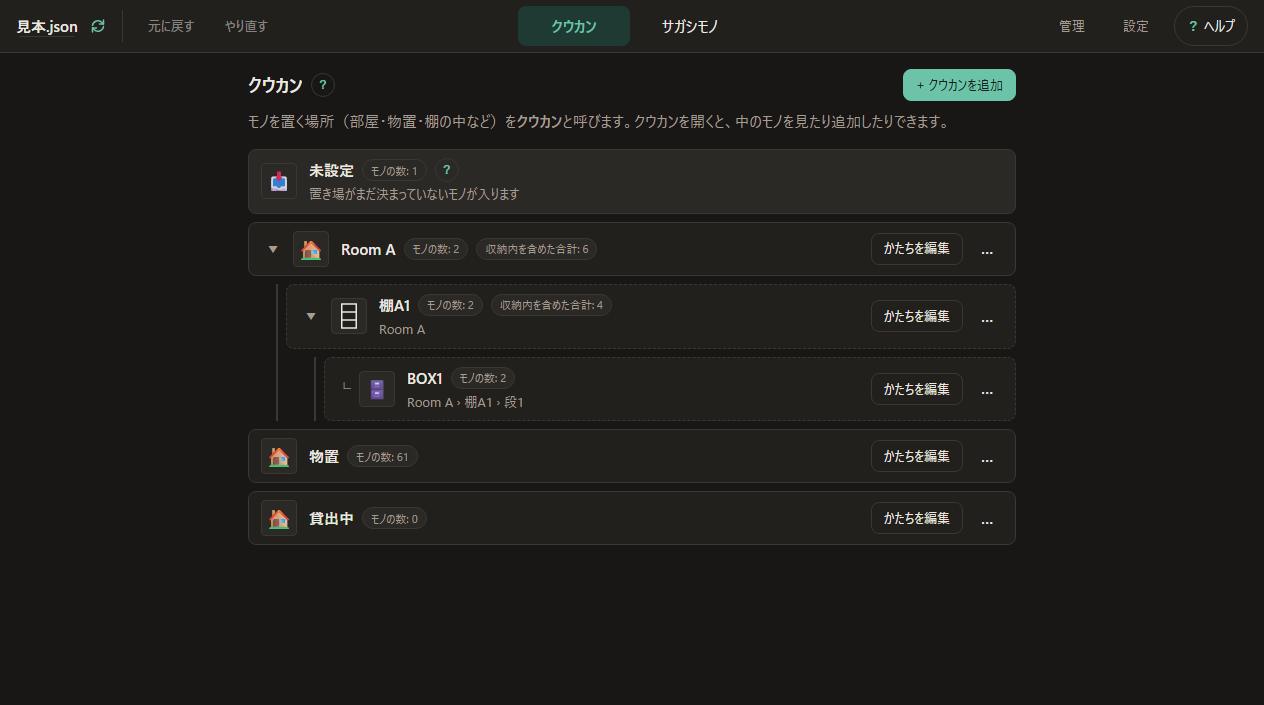
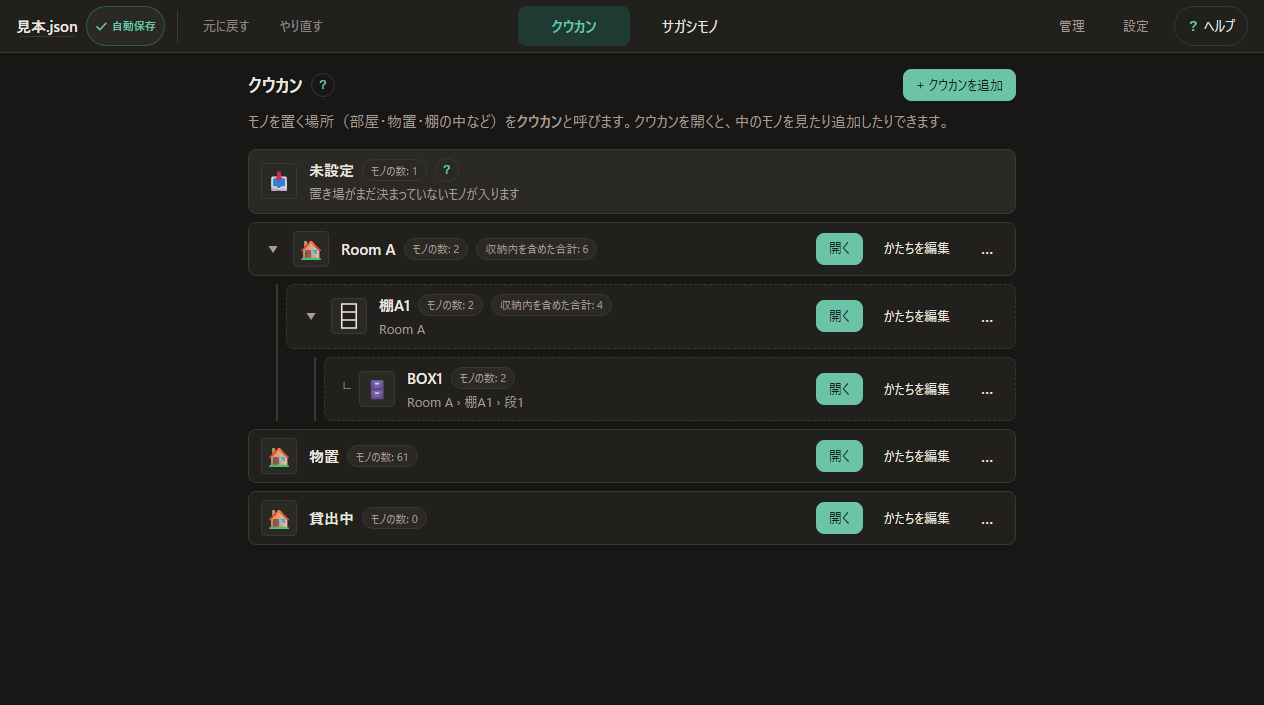
feat(ui): resolve blind review frictions with clear primary actions, safe autosave badge, and focused guidance

diff --git a/src/ui/components/Header.svelte b/src/ui/components/Header.svelte
@@ -123,25 +123,17 @@
           class="autosave-badge"
           class:on={$app.autosave}
           class:off={!$app.autosave}
-          title={$app.autosave ? '自動保存: オン（押すとオフにします）' : '自動保存: オフ（押すとオンにします）'}
-          aria-label={$app.autosave ? '自動保存はオンです。押すとオフにします' : '自動保存はオフです。押すとオンにします'}
+          title={$app.autosave ? '自動保存: オン（変更は約1秒後に自動保存されます）' : '自動保存: オフ（手動で保存ボタンを押してください）'}
+          aria-label={$app.autosave ? '自動保存はオンです' : '自動保存はオフです'}
           onclick={onAutosaveClick}
         >
           {#if $app.autosave}
-            <svg class="autosave-icon" viewBox="0 0 16 16" width="16" height="16" fill="none" stroke="currentColor" stroke-width="1.5" stroke-linecap="round" stroke-linejoin="round" aria-hidden="true">
-              <path d="M2.5 7.5A5.5 5.5 0 0 1 12 4.5l1.5 1.5" />
-              <polyline points="13.5 2 13.5 6 9.5 6" />
-              <path d="M13.5 8.5A5.5 5.5 0 0 1 4 11.5L2.5 10" />
-              <polyline points="2.5 14 2.5 10 6.5 10" />
+            <svg class="autosave-icon" viewBox="0 0 16 16" width="13" height="13" fill="none" stroke="currentColor" stroke-width="2" stroke-linecap="round" stroke-linejoin="round" aria-hidden="true">
+              <polyline points="2.5 8.5 6 12 13.5 4" />
             </svg>
+            <span class="autosave-text">自動保存</span>
           {:else}
-            <svg class="autosave-icon off-icon" viewBox="0 0 16 16" width="16" height="16" fill="none" stroke="currentColor" stroke-width="1.5" stroke-linecap="round" stroke-linejoin="round" aria-hidden="true">
-              <path d="M2.5 7.5A5.5 5.5 0 0 1 12 4.5l1.5 1.5" opacity="0.6" />
-              <polyline points="13.5 2 13.5 6 9.5 6" opacity="0.6" />
-              <path d="M13.5 8.5A5.5 5.5 0 0 1 4 11.5L2.5 10" opacity="0.6" />
-              <polyline points="2.5 14 2.5 10 6.5 10" opacity="0.6" />
-              <line x1="2" y1="2" x2="14" y2="14" stroke="currentColor" stroke-width="1.8" />
-            </svg>
+            <span class="autosave-text off">手動保存</span>
           {/if}
         </button>
 
@@ -259,42 +251,45 @@
     background: transparent;
   }
 
-  /* 自動保存インジケーター（コンパクト・常時表示） */
+  /* 自動保存インジケーター（ピル型・安心感向上） */
   .autosave-badge {
     display: inline-flex;
     align-items: center;
-    justify-content: center;
-    width: 24px;
-    height: 24px;
-    padding: 0;
-    border: none;
-    background: transparent;
-    border-radius: var(--radius-small);
+    gap: 4px;
+    height: 22px;
+    padding: 0 var(--space-2);
+    border: 1px solid var(--border);
+    background: var(--surface-2);
+    border-radius: 999px;
     color: var(--text-muted);
+    font-size: 11px;
     cursor: pointer;
     flex-shrink: 0;
-    transition: color 0.15s, background-color 0.15s;
+    transition: color 0.15s, background-color 0.15s, border-color 0.15s;
   }
 
   .autosave-badge:hover {
-    background: var(--surface-2);
+    background: var(--surface-3);
     color: var(--text);
   }
 
   .autosave-badge.on {
     color: var(--accent);
+    border-color: rgba(52, 211, 153, 0.3);
   }
 
   .autosave-badge.off {
     color: var(--text-muted);
+    border-color: var(--border);
   }
 
   .autosave-icon {
     display: block;
+    flex-shrink: 0;
   }
 
-  .autosave-icon.off-icon {
-    color: var(--text-muted);
+  .autosave-text {
+    font-weight: 500;
   }
 
   .file-menu {

diff --git a/src/ui/screens/ViewScreen.svelte b/src/ui/screens/ViewScreen.svelte
@@ -124,11 +124,11 @@
             {:else}
               <button
                 type="button"
-                class="small primary placing-btn"
+                class="small placing-btn"
                 onclick={handleTogglePlacing}
                 title="配置図の上にモノのマーク（点や長方形）を配置・移動します"
               >
-                モノを配置
+                <span class="placing-icon" aria-hidden="true">📍</span> モノを配置
               </button>
             {/if}
           {/if}
@@ -196,6 +196,7 @@
               </div>
             {:else}
               <div class="no-drawing-card">
+                <div class="card-icon" aria-hidden="true">📐</div>
                 <div class="card-body">
                   <h3 class="card-title">このクウカンにはまだかたちがありません</h3>
                   <p class="card-desc">
@@ -398,6 +399,15 @@
     flex: 1;
   }
 
+  .no-drawing-card .card-icon {
+    font-size: 24px;
+    line-height: 1;
+    display: flex;
+    align-items: center;
+    justify-content: center;
+    opacity: 0.85;
+  }
+
   .no-drawing-card .card-title {
     margin: 0 0 var(--space-1) 0;
     font-size: var(--font-size);
@@ -423,6 +433,25 @@
     flex-direction: column;
     box-shadow: var(--shadow-sm);
     position: relative;
+  }
+
+  .placing-btn {
+    background: var(--surface-2);
+    border: 1px solid var(--border);
+    color: var(--text);
+    display: inline-flex;
+    align-items: center;
+    gap: var(--space-1);
+    font-weight: 500;
+  }
+
+  .placing-btn:hover {
+    background: var(--surface-3);
+    border-color: var(--border-strong, var(--border));
+  }
+
+  .placing-icon {
+    font-size: 13px;
   }
 
   @media (max-width: 767.98px) {

diff --git a/src/ui/screens/KuukanScreen.svelte b/src/ui/screens/KuukanScreen.svelte
@@ -274,7 +274,18 @@
         {#if editingKuukanId !== kuukan.id}
           <button
             type="button"
-            class="small"
+            class="small primary open-kuukan-btn"
+            title="このクウカンを開いてモノを見たり追加したりします"
+            onclick={(e) => {
+              e.stopPropagation();
+              app.openView(kuukan.id);
+            }}
+          >
+            開く
+          </button>
+          <button
+            type="button"
+            class="small ghost edit-shape-btn"
             title="クウカンのかたちや仕切り、目印を編集します"
             onclick={(e) => {
               e.stopPropagation();

diff --git a/src/view/viewHints.ts b/src/view/viewHints.ts
@@ -37,8 +37,8 @@ export function computeViewHint(params: ViewHintParams): ViewHint {
   // 1. 通常閲覧モード
   if (!isPlacing) {
     return {
-      what: 'エリアを押すと、そのエリアのモノがリストに並びます',
-      how: '再クリックで解除、収納を押すと中身を開けます。位置の登録は右上の「モノを配置」へ。',
+      what: 'エリアを押すと、そのエリアのモノに絞り込めます',
+      how: 'もう一度押すと元に戻ります。収納を押すと中身を開けます。',
       shortWhat: 'エリアで絞り込み',
       shortHow: '収納を押すと中身を開けます',
       actionText: '',
